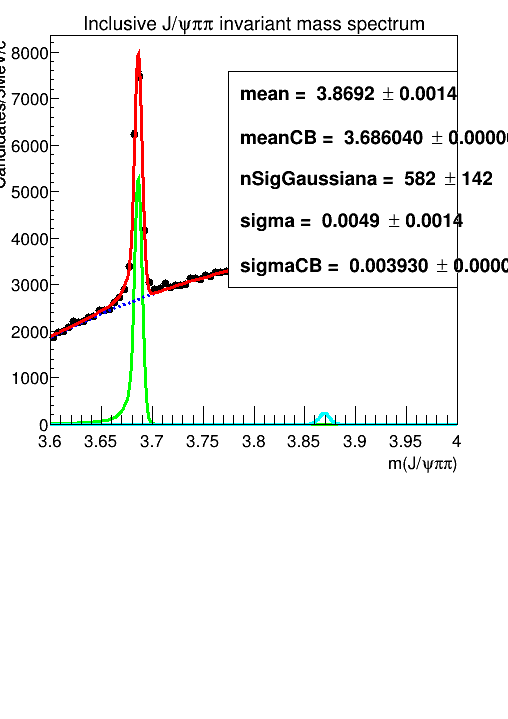
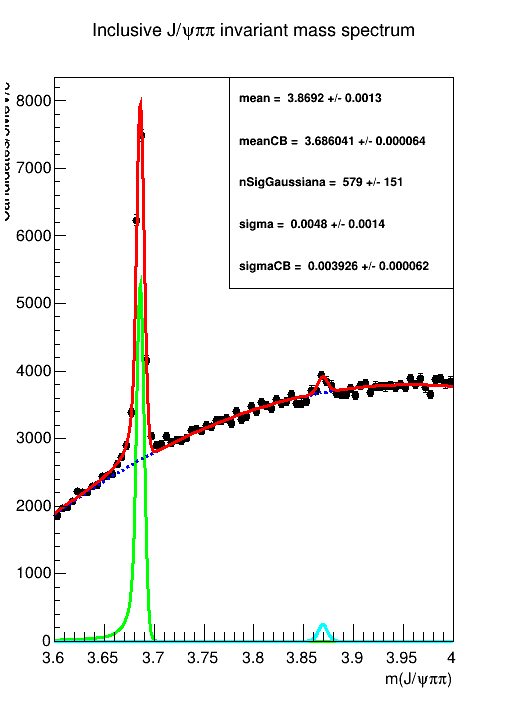
.

Changed region(s): [[0.0, 0.0306, 1.0, 0.9485], [0.0591, 0.765, 0.1181, 0.8261]]

diff --git a/es6_fit_esame/macro.C b/es6_fit_esame/macro.C
@@ -15,7 +15,7 @@ void macro(bool fixedTails = true, const TString bkg = "exp", const TString exte
     myC->SetBottomMargin(0.41); myC->SetTopMargin(0.05);
 
     TFile f{"./root_files/histo-esame28Marzo2017.root", "READ"}; 
-    TH1D * histo{(TH1D *)f.Get("chic")}; 
+    TH1D * histo{(TH1D *)f.Get("chic")}; // Sempre il problema della conversione sulla macchina remota  
 
     RooRealVar x{"x", "x", 3.4, 3.6}; 
 
@@ -26,7 +26,7 @@ void macro(bool fixedTails = true, const TString bkg = "exp", const TString exte
     xFrame->SetYTitle("Counts");
     xFrame->SetXTitle("m()");
 
-    rfHisto.plotOn(xFrame); // E poi plotti l'histogramma sul frame generato dalla variabile
+    rfHisto.plotOn(xFrame); // E poi plotti l'histogramma sul frame generato per la variabile
 
 
     // --------- Fit 
@@ -47,17 +47,19 @@ void macro(bool fixedTails = true, const TString bkg = "exp", const TString exte
     RooRealVar sigmaCB2{"sigmaCB2", "sigmaCB2", 0.01, 0.0001, 0.1}; // Sigma
     RooRealVar alpha2{"alpha2", "alpha2", 1, 0.00001, 10000};
     RooRealVar nCB2{"nCB2", "nCB2", 1, 0.0001, 10000};
-    // Pdf 
+
+    // Code fissate o no 
     if (fixedTails) 
         // Fisso le code 
         alpha2 = alpha1; 
         nCB2 = nCB1; 
     
+    // Pdf 
     RooCBShape cb2Pdf{"cb2Pdf", "cb2Pdf", x, meanCB2, sigmaCB2, alpha2, nCB2};
     
     // Fondo
     // Devo per forza definire entrambe le pdf e poi usare solo quella scelta dall'utente
-    // Questo perchè non è possibile determinare il tipo di una variabile a run-time (cioè dentro un if) 
+    // Questo perchè in C++ non è possibile determinare il tipo di una variabile a run-time (cioè dentro un if) 
 
     // Fondo exp 
     RooRealVar c{"c", "c", -1, -100, 1};
@@ -70,12 +72,13 @@ void macro(bool fixedTails = true, const TString bkg = "exp", const TString exte
 
     // Pdf Totale 
     // Componenti
-    RooRealVar nSig1{"nSig", "Number of signal cands", 1e3, 1, 1e7};
+    RooRealVar nSig1{"nSig", "Segnale 1", 1e3, 1, 1e7};
     RooRealVar nSig2{"nSig2", "Segnale 2", 1e3, 1, 1e8};
-    RooRealVar nBkg{"nBjg", "Number of bkg component", 120e3, 1, 1e8};
+    RooRealVar nBkg{"nBkg", "Background", 120e3, 1, 1e8};
 
     // Definisco la pdf totale 
-    // La definisco come un generico puntatore a una RooAddPdf 
+    // La definisco come un generico puntatore a una RooAddPdf e poi la specializzo a seconda della scelta dell'utente 
+    // Nota che questo giochetto funziona solo se usi il puntatore, non funziona con gli oggetti statici (mi sa ma non sono sicuro)
     RooAddPdf * totalPdf; 
     if (bkg == "exp") {
         // La inizializzo in base al background scelto
@@ -90,22 +93,29 @@ void macro(bool fixedTails = true, const TString bkg = "exp", const TString exte
         exit(1); 
     }
 
-    // Disegno 
+    // Fit  
     totalPdf->fitTo(rfHisto, Extended(kTRUE));
+    // Plot 
     totalPdf->plotOn(xFrame, rf::LineColor(kRed));
-    totalPdf->plotOn(xFrame, rf::Components(RooArgSet(cb1Pdf)), rf::LineColor(kGreen));
-    totalPdf->plotOn(xFrame, rf::Components(cb2Pdf), rf::LineColor(kCyan)); // Gaussiana a destra
+    totalPdf->plotOn(xFrame, rf::Components(RooArgSet(cb1Pdf)), rf::LineColor(kGreen)); // CB a sinistra
+    totalPdf->plotOn(xFrame, rf::Components(cb2Pdf), rf::LineColor(kCyan)); // CB a destra
 
     // Scelgo quale fondo fittare 
     if (bkg == "exp") totalPdf->plotOn(xFrame, rf::Components(expPdf), rf::LineStyle(kDashed));
     else if (bkg == "cheby") totalPdf->plotOn(xFrame, rf::Components(chebyPdf), rf::LineStyle(kDashed));
 
     totalPdf->plotOn(xFrame, rf::LineColor(kRed)); // Correzione per i pull
-    totalPdf->paramOn(xFrame, Parameters(RooArgSet(meanCB1, sigmaCB1, nSig1, meanCB2, sigmaCB2, nSig2)), Layout(0.1, 0.4)) ; 
+    totalPdf->paramOn(xFrame, Parameters(RooArgSet(meanCB1, sigmaCB1, nSig1, meanCB2, sigmaCB2, nSig2)), Layout(0.6, 0.9, 0.9)) ; 
+    xFrame->getAttText()->SetTextSize(0.02); 
 
     // -------------------- Pull 
+    
+    // Salvo l'istogramma con le pull in una variabile (lo fitterò con una gaussiana)
     RooHist * rooHisto_pull{xFrame->pullHist()}; 
-    RooPlot * pullFrame{x.frame("")};
+
+    // Creo un nuovo frame per le pull sempre a partire dalla variabile x
+    // Su xFrame c'è già tutta la roba fittata, invece così ne faccio uno nuovo 
+    RooPlot * pullFrame{x.frame()}; 
     pullFrame->addObject(rooHisto_pull, "p");
     pullFrame->SetTitle("");
     pullFrame->SetYTitle("Pulls bin-by-bin");
@@ -115,10 +125,15 @@ void macro(bool fixedTails = true, const TString bkg = "exp", const TString exte
 
     myC->Divide(1, 2);
 
+    // Disegno l'istogramma con i dati 
+    myC->cd(1); 
+    gPad->SetPad(0, 0.3, 1, 1);
+    xFrame->Draw();
+
     // Disegno l'isto dei pull 
-    myC->cd(2); // Il 3 è quello in basso a sinistra
+    myC->cd(2); // In basso  
     gPad->SetPad(0, 0, 1, 0.3);
-    pullFrame->Draw();
+    pullFrame->Draw(); // Disegno le pull 
 
     // Linee sul grafico dei pull
     TLine lineplus{3.4, 3, 3.6, 3};
@@ -126,21 +141,16 @@ void macro(bool fixedTails = true, const TString bkg = "exp", const TString exte
     TLine linezero{3.4, 0, 3.6, 0};
 
     lineplus.SetLineStyle(2);
-    lineplus.SetLineColor(2);
+    lineplus.SetLineColor(2); // Rosso 
     lineplus.Draw("same");
 
     lineminus.SetLineStyle(2);
-    lineminus.SetLineColor(2);
+    lineminus.SetLineColor(2); // Rosso 
     lineminus.Draw("same");
 
     linezero.SetLineStyle(2);
-    linezero.SetLineColor(4);
+    linezero.SetLineColor(4); // Blu 
     linezero.Draw("same");
-
-    // Disegno l'istogramma con i dati 
-    myC->cd(1); // L'1 è quello in alto a sinistra
-    gPad->SetPad(0, 0.3, 1, 1);
-    xFrame->Draw();
 
     // Salvo il file 
     if (fixedTails) {
@@ -151,9 +161,11 @@ void macro(bool fixedTails = true, const TString bkg = "exp", const TString exte
 
     // ------------------------- Distrubuzione delle pull
 
-    // Disegnare l'histo delle pull (per fittare con la gaussiana) in un canvas separato
-    auto myC2 = new TCanvas("myC2", "plotss", 700, 800); 
-    myC2->cd(); 
+    myC->Clear(); 
+    myC->Divide(1, 1); 
+    myC->cd(); 
+
+    // Uso un istogramma normale di Root così posso fittare con una normale TF1  
     auto histo_pull = new TH1D("hp", "hp", 50, -6, 6); 
     for (int i{0}; i < rooHisto_pull->GetN(); ++i) {
         histo_pull->Fill(rooHisto_pull->GetPointY(i)); 
@@ -184,11 +196,11 @@ void macro(bool fixedTails = true, const TString bkg = "exp", const TString exte
     // --------------------------------------------------------------
 
     if (fixedTails) {
-        myC2->SaveAs("./Plots/pull_distrib_fixed_tails_bkg_" + bkg + "." + extension); 
+        myC->SaveAs("./Plots/pull_distrib_fixed_tails_bkg_" + bkg + "." + extension); 
     } else {
-        myC2->SaveAs("./Plots/pull_distrib_bkg_" + bkg + "." + extension); 
+        myC->SaveAs("./Plots/pull_distrib_bkg_" + bkg + "." + extension); 
     }
 
 
-    delete myC; delete myC2;
+    delete myC; 
 }

diff --git a/es5_jpsi/psi_fit.C b/es5_jpsi/psi_fit.C
@@ -13,16 +13,18 @@ void psi_fit() {
     RooRealVar x{"x", "x", 3.6, 4}; // è una variabile random, gli argomenti sono: "nome", "titolo", valoremin, valoremax
     RooDataHist rfHisto{histo->GetName(), histo->GetTitle(), RooArgSet(x), rf::Import(*histo, kFALSE)}; // Nota che gli devi passare la variabile aleatoria
 
-    RooPlot * xFrame{x.frame(Title(""))}; // Vedere che fa
-    // Nota che il frame lo estrai dalla variabile aleatoria
+    RooPlot * xFrame{x.frame(Title(""))}; 
+
+    // Grafica frame    
     xFrame->SetTitle("Inclusive J/#psi#pi#pi invariant mass spectrum");
     xFrame->SetYTitle("Candidates/5MeV/c^{2}");
     xFrame->SetXTitle("m(J/#psi#pi#pi)");
-
+    
+    // Plotto l'istogramma
     rfHisto.plotOn(xFrame); // E poi plotti l'histogramma sul frame generato dalla variabile
 
+    // Canvas 
     TCanvas * myC = new TCanvas("myC", "Plots", 700, 700);
-    myC->cd();
     myC->SetBottomMargin(0.41); myC->SetTopMargin(0.05);
 
     // -------------------------------- FIT
@@ -39,7 +41,6 @@ void psi_fit() {
     RooCBShape cbPdf{"cbPdf", "cbPdf", x, meanCB, sigmaCB, alpha, nCB};
 
     // Background cheby
-
     RooRealVar c0{"c0", "1st coeff", 0.3, -100000, 100000};
     RooRealVar c1{"c1", "2nd coeff", -0.1, -100000, 100000};
     RooChebychev ch{"cheby", "Chebychev", x, RooArgList(c0, c1)};
@@ -48,32 +49,45 @@ void psi_fit() {
     RooRealVar mean{"mean", "mean", 3.87, 3.85, 3.88};
     RooRealVar sigma{"sigma", "sigma", 0.005, 0.001, 0.015};
 
-    RooGaussian g{"g", "Gauss(x, mean, sigma)", x, mean, sigma};
+    RooGaussian g{"g", "gaussian", x, mean, sigma};
 
     // Pdf totale
 
+    // Coefficenti 
+
+    // Componente segnale Crystal Ball
     RooRealVar nSig{"nSig", "Number of signal cands", 11861, 1, 1e7};
-    nSig.setConstant(kTRUE);
+    nSig.setConstant(kTRUE); // Fatto successivamente, prima fittato, poi settato costante
+    // Componente bkg Cheby
     RooRealVar nBkg{"nBjg", "Number of bkg component", 120e3, 1, 1e8};
+    // Componente segnale gaussaian
     RooRealVar nSigGaussiana{"nSigGaussiana", "Componente gaussiana piccolina", 1e3, 1, 1e8};
 
+    // Pdf 
     RooAddPdf totalPdf{"totalPdf", "totalPdf", RooArgList(cbPdf, ch, g), RooArgList(nSig, nBkg, nSigGaussiana)}; // Nota che gli ho aggiunto anche la gaussiana a destra
 
+    // Fit 
     totalPdf.fitTo(rfHisto, Extended(kTRUE));
+
+    // Plot 
+    myC->Divide(1, 1); 
+    myC->cd(1); 
     totalPdf.plotOn(xFrame, rf::LineColor(kRed));
     totalPdf.plotOn(xFrame, rf::Components(RooArgSet(cbPdf)), rf::LineColor(kGreen));
     totalPdf.plotOn(xFrame, rf::Components(g), rf::LineColor(kCyan)); // Gaussiana a destra
     totalPdf.plotOn(xFrame, rf::Components(ch), rf::LineStyle(kDashed));
 
     totalPdf.plotOn(xFrame, rf::LineColor(kRed)); // Correzione per i pull
-    totalPdf.paramOn(xFrame, Parameters(RooArgSet(meanCB, sigmaCB, nSig, mean, sigma, nSigGaussiana)), Layout(0.45, 0.9, 0.9)) ; // Stampo anche i valori per la gaussiana
+    totalPdf.paramOn(xFrame, Parameters(RooArgSet(meanCB, sigmaCB, nSig, mean, sigma, nSigGaussiana)),
+     Format("NEU", AutoPrecision(2)), 
+     Layout(0.45, 0.9, 0.9)); // Format decide il formato con cui mostra i parametri, tipo AutoPrecision decide il numero di cifre significative
+    xFrame->getAttText()->SetTextSize(0.025); // Per ridurre la dimensione della scritta dei parametri  
 
     xFrame->Draw();
     myC->SaveAs("./Plots/Histo_plot.png");
 
 
     // ------------------ Pull
-
     RooPlot * pullFrame{x.frame("")};
     pullFrame->addObject( xFrame->pullHist(), "p");
     pullFrame->SetTitle("");
@@ -82,31 +96,34 @@ void psi_fit() {
     pullFrame->SetMinimum(-6);
     pullFrame->SetMaximum(6);
 
-    myC->Divide(0, 2);
-    myC->cd(2);
-    gPad->SetPad(0, 0, 1, 0.3);
-    pullFrame->Draw();
+    // Draw di tutto 
+    myC->Clear();
+    myC->Divide(1, 2);
 
-    // Linee
+    myC->cd(1); // Vado al primo pad 
+    gPad->SetPad(0, 0.3, 1, 1); // Setto dimensioni e posizione 
+    xFrame->Draw(); // Disegno il frame con istogramma e fit sul pad 
+
+    myC->cd(2); // Vado al secondo pad (Qui metterò le pull)
+    gPad->SetPad(0, 0, 1, 0.3); // Setto posizione e dimensioni  
+    pullFrame->Draw(); // Disegno il frame delle pull sul pad che ho preparato 
+
+    // Linee (Sul pad delle pull)
     TLine lineplus{3.6, 3, 4, 3};
     TLine lineminus{3.6, -3, 4, -3};
     TLine linezero{3.6, 0, 4, 0};
-
-    lineplus.SetLineStyle(2);
-    lineplus.SetLineColor(2);
+ 
+    lineplus.SetLineStyle(2); // Tratteggiata 
+    lineplus.SetLineColor(2); // Rossa
     lineplus.Draw("same");
 
-    lineminus.SetLineStyle(2);
-    lineminus.SetLineColor(2);
+    lineminus.SetLineStyle(2); // Tratteggiata 
+    lineminus.SetLineColor(2); // Rossa 
     lineminus.Draw("same");
 
-    linezero.SetLineStyle(2);
-    linezero.SetLineColor(4);
+    linezero.SetLineStyle(1); // Continua
+    linezero.SetLineColor(4); // Blu 
     linezero.Draw("same");
-
-    myC->cd(1);
-    gPad->SetPad(0, 0.3, 1, 1);
-    xFrame->Draw();
 
     myC->SaveAs("./Plots/histo_pull.png");
 

diff --git a/README.md b/README.md
@@ -121,6 +121,7 @@ Classi più usate:
     Il metodo `fitTo()` prende come primo argomento un tipo `RooAbsData &`, cioè una reference a un `RooAbsData` (la reference è un modo intelligente per evitare la copia dei dati durante la chiamata in una funzione e senza usare i puntatori). Quindi ho bisogno di un oggetto di tipo `RooAbsData` e non un `RooAbsData *`, quindi devo passare il puntatore deferenziato (*MuMuHist) e non il puntatore stesso (MuMuHist). 
     
     - `plotOn(RooPlot * frame, RooLinkedList & cmdList)` -> Plotta la pdf sul frame (preparato per la variabile da cui ho estratto il frame). Si possono usare una serie di opzioni. 
+    Da notare che con l'opzione `Components(const char * nome_componente)` posso plottare una sola componente delle pdf composte (tipo re `RooAddPdf`). 
 
     - `paramOn(RooPlot * frmae, RooLinkedList & cmdList)` -> Aggiunge un box con i parametri da mostrare, di seguito alcune delle opzioni: 
     ![](./immagini_readme/opzioni_plot.png)
@@ -143,12 +144,57 @@ Abbiamo fittato l'istogramma PsiPrimeMass_bin9 dal [file](./root_files/hlt_5_new
 
 Utilizzato il codice dell'esercitazione 4a per aggiungere i pull dei due fit e scegliere il fit migliore del background. 
 
+**Nota: Ricorda sempre la correzione per i pull** 
+
+```cpp
+totalPdf->plotOn(xFrame, rf::LineColor(kRed)); 
+```
+
+Anche se hai già plottato la pdf totale e dopo le sue componenti, devi plottare tutta la pdf totale come ultima cosa prima della chiamata al metodo `pullHist()` perchè **`pullHist()` calcola la differenza tra l'istogramma e l'ultima pdf plottata**. 
+
 **Finito**
 # Es 5: Fit spettro J/#Psi
 [Pdf](https://www.ba.infn.it/~pompili/teaching/data_analysis_lab/Exercise4-outline.pdf)
 
-## Es 6: Fit con pull (esercitazione con esame 2017)
+Fit dello spettro della J/psi con una Crystal ball + una piccola gaussiana come segnale e una Chebychev come background. Disegnate anche le pull. 
+
+**Nota: Trovato il modo di cambiare la dimensione del font ai parametri dei fit plottati con `paramOn()`**
+
+```cpp
+xFrame->getAttText()->SetTextSize(0.025); 
+``` 
+
+Nota che il metodo `getAttText()` restituisce un oggetto di tipo `TAttText()` che è una classe di Root normale con tutti i suoi metodi. **Da documentazione, di default la Text Size settata è 1.**
+
+**Nota: Su come funziona `paramOn()`**
+```cpp
+totalPdf.paramOn(xFrame, Parameters(RooArgSet(meanCB, sigmaCB, nSig, mean, sigma, nSigGaussiana)),
+    Format("NEU", AutoPrecision(2)), 
+    Layout(0.45, 0.9, 0.9)); 
+```
+
+`Format()` permette di inserire le opzioni di visualizzazione, il primo argomento selezione cosa viene mostrato, da documentazione: << "N" adds name, "E" adds error, "A" shows asymmetric error, "U" shows unit, "H" hides the value >>. Il secondo argomento determina il numero di cifre significative da mostrare nel riquadro.
+
+**Cose da ricordare sui canvas**
+
+- Prima di disegnarci sopra ricorda sempre di fare il `Clear()`. 
+- Anche quando ti serve un solo pad, conviene fare `Divide(1, 1)`. Questo perchè quando usi l'opzione `Layout()` del metodo `paramOn()`, le coordinate relative sono relative al canvas, non al pad, quindi se per sbaglio ci sono un numero di pad diversi da quelli che credevi (anche se vuoti), le coordinate non saranno come te le aspetti. 
+
+**Problema: L'algoritmo di fit dà errori. (Ma il fit è graficamente buono)**
+
+**Finito**
+
+# Es 6: Fit con pull (esercitazione con esame 2017)
 [Pdf](https://www.ba.infn.it/~pompili/teaching/data_analysis_lab/Traccia-esame-28marzo17.pdf)
+
+Era un esempio di traccia d'esame quindi codice scritto totalmente da 0.
+
+Fit del grafico con due Crystal ball (il fit è migliore se le CB hanno la stessa coda) e background a scelta tra esponenziale o cheby. Disegno delle pull e fit della distribuzione delle pull con una gaussiana. 
+
+L'utente può scegliere se le code delle CB sono fissate o no (cioè stesso parametro per la coda di entrambe) e può scegliere il background tra esponenziale e chebychev. 
+
+**Nota: Qui c'è il modo per convertire l'istogramma delle pull in un TH1D normale.**
+
 **Finito**
 
 # Es 7: Uso dei dati di Es 4 per fittare tutti i bin (da 1 a 23)
@@ -191,5 +237,4 @@ Versione di root nella macchina remota: 6.14/09 (built from tag, 22 November 201
 Sono stati trovati alcuni bug nella versione precedente di root. Verranno qui segnalati. I bug non sono stati esplorati, ci si è limitati ad evitarli.
 
 - La classe TH1D * non viene trovata nell'albero di discendenza della classe TObject *. Questo provoca un non funzionamento del dynamic_cast dagli oggetti estratti dai root file ad istogrammi. Per questo
-motivo è stato spesso necessario fare conversioni c-like. Probabilmente basterebbe utilizzare static_cast ma non è stato ancora verificato. Inoltre non si è indagato su quali classi non vengono trovate
-nell'albero oltre a TH1D *
+motivo è stato spesso necessario fare conversioni c-like. Basterebbe utilizzare uno static_cast ma alla fine in questo caso è lo stesso. Inoltre non si è indagato su quali classi non vengono trovate nell'albero oltre a TH1D *. 
